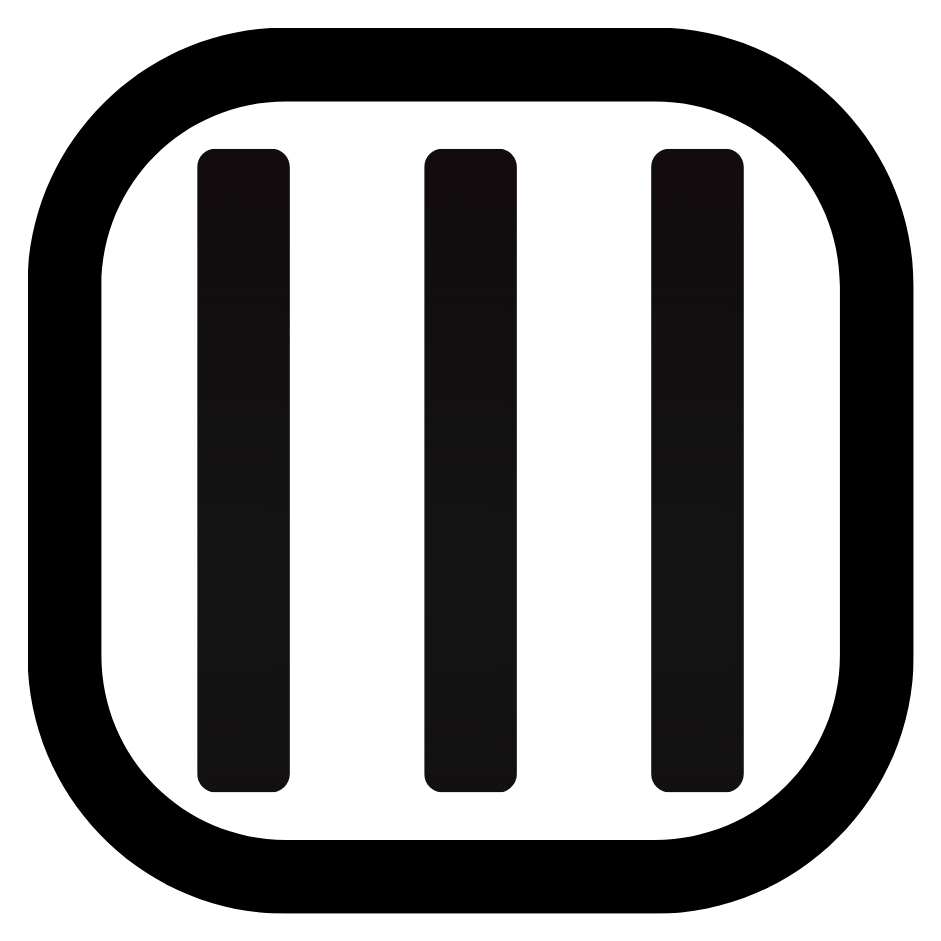
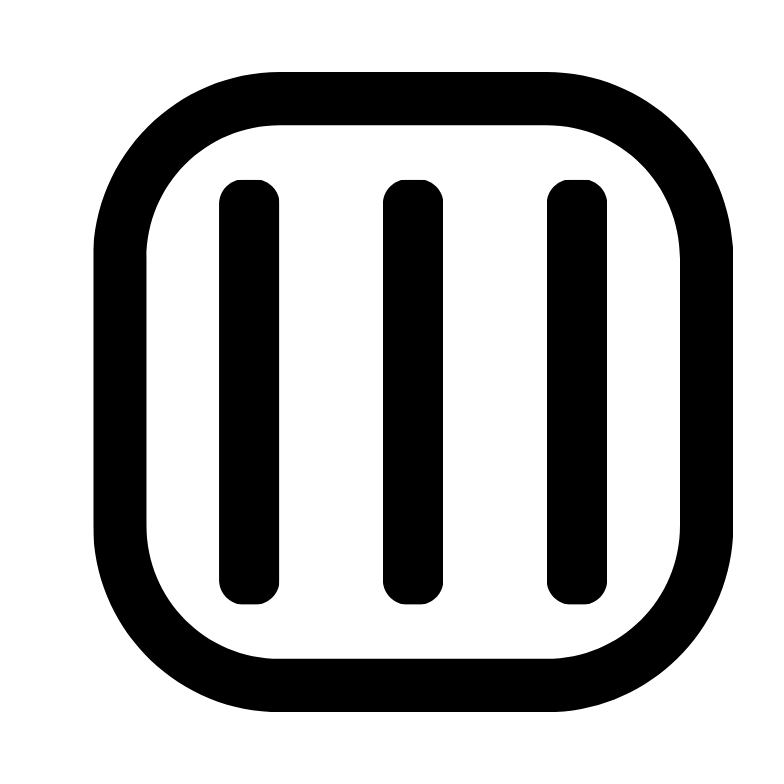
chore: actualizar iconos Android y limpiar assets
- Agregar icon principal Android (truckbook-iOS-Default)
- Adaptive icon con grilleBlack sobre fondo blanco
- Agregar grilleWhite, eliminar grille.png y splash-icon.png obsoletos

diff --git a/app.config.js b/app.config.js
@@ -35,9 +35,10 @@ export default {
       },
     },
     android: {
+      icon: "./assets/TruckBook/[email redacted]",
       adaptiveIcon: {
-        foregroundImage: "./assets/TruckBook/[email redacted]",
-        backgroundColor: "#393E46",
+        foregroundImage: "./assets/TruckBook/grilleBlack.png",
+        backgroundColor: "#FFFFFF",
       },
       package: "com.truckbook.app",
       // Los permisos los gestionan los plugins (expo-location, expo-contacts, etc.)